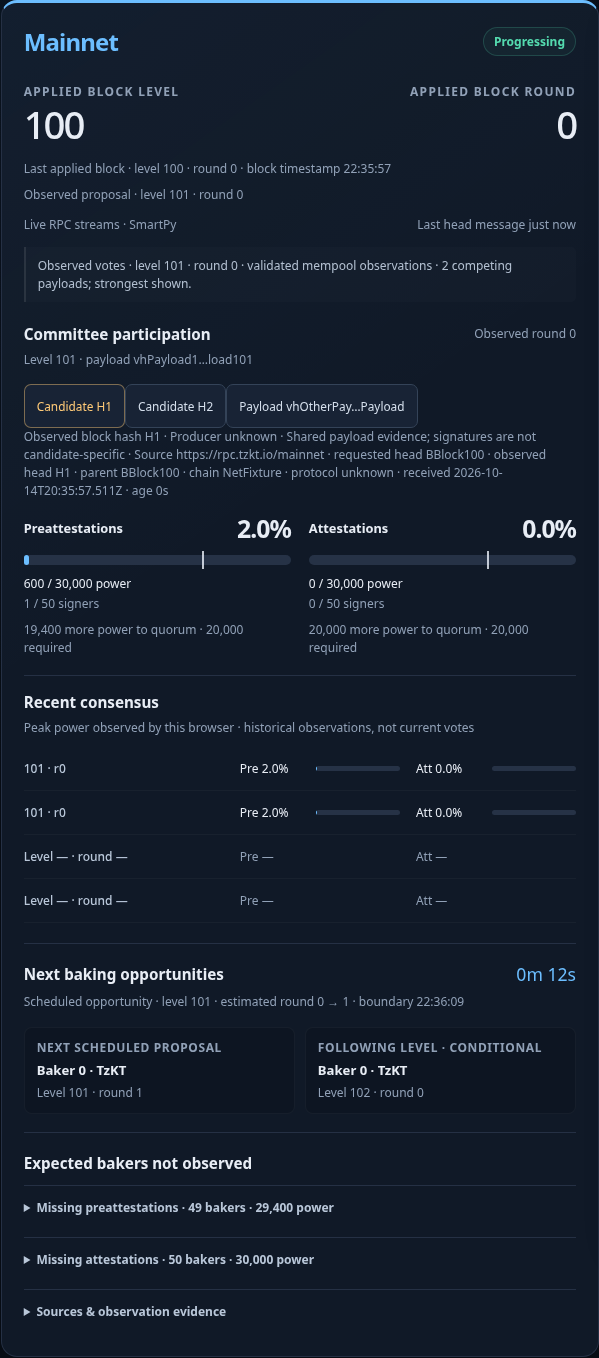
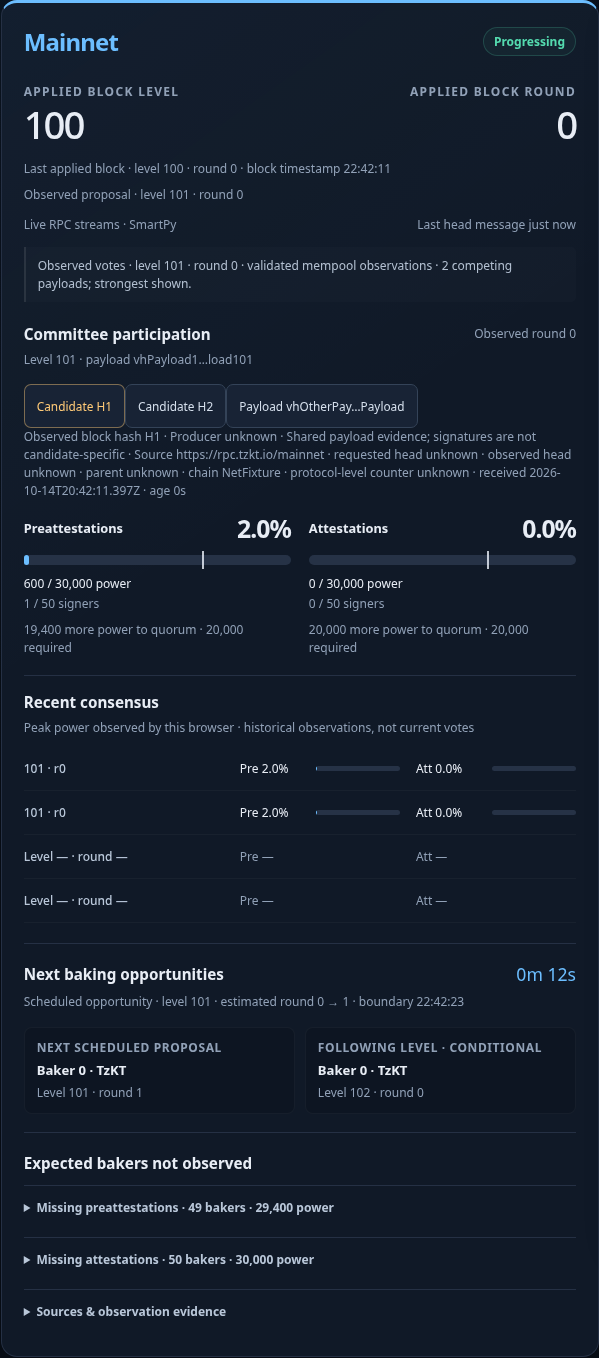
fix: preserve truthful unpinned observation provenance

diff --git a/src/main.ts b/src/main.ts
@@ -177,7 +177,7 @@ function render(runtime: Runtime): void {
   const chosenIdentity = activeCandidate?.identity ?? (selected ? groupIdentity(selected) : undefined);
   const selectedEvidence = activeCandidate?.evidence ?? selected?.evidence;
   const sharedPayload = activeCandidate && matchingCandidates.filter(candidate => candidate.header.payload_hash === activeCandidate.header.payload_hash && candidate.evidence.source.baseUrl === activeCandidate.evidence.source.baseUrl).length > 1;
-  const candidateEvidence = `${activeCandidate ? `Observed block hash ${activeCandidate.header.hash}` : 'Candidate hash unavailable'} · Producer unknown${sharedPayload ? ' · Shared payload evidence; signatures are not candidate-specific' : ''}${selected?.conflicts.length ? ` · Conflicting payload signer(s): ${selected.conflicts.join(', ')}` : ''}${selected?.unknownSlots.length ? ` · Unknown-rights signer slots: ${selected.unknownSlots.join(', ')}` : ''}${selectedEvidence ? ` · Source ${selectedEvidence.source.baseUrl} · requested head ${selectedEvidence.requestedHeadHash ?? 'unknown'} · observed head ${selectedEvidence.observedHeadHash ?? 'unknown'} · parent ${selectedEvidence.predecessor ?? 'unknown'} · chain ${selectedEvidence.chainId ?? 'unknown'} · protocol ${selectedEvidence.protocol ?? 'unknown'} · received ${new Date(selectedEvidence.receivedAt).toISOString()} · age ${Math.max(0,Math.floor((performance.now()-selectedEvidence.receivedMonotonic)/1000))}s` : ' · Source/context unavailable'}${authority.usable ? '' : ` · Numerical authority unavailable: ${authority.reason}`}`;
+  const candidateEvidence = `${activeCandidate ? `Observed block hash ${activeCandidate.header.hash}` : 'Candidate hash unavailable'} · Producer unknown${sharedPayload ? ' · Shared payload evidence; signatures are not candidate-specific' : ''}${selected?.conflicts.length ? ` · Conflicting payload signer(s): ${selected.conflicts.join(', ')}` : ''}${selected?.unknownSlots.length ? ` · Unknown-rights signer slots: ${selected.unknownSlots.join(', ')}` : ''}${selectedEvidence ? ` · Source ${selectedEvidence.source.baseUrl} · requested head ${selectedEvidence.requestedHeadHash ?? 'unknown'} · observed head ${selectedEvidence.observedHeadHash ?? 'unknown'} · parent ${selectedEvidence.predecessor ?? 'unknown'} · chain ${selectedEvidence.chainId ?? 'unknown'} · protocol-level counter ${selectedEvidence.protocolLevel ?? 'unknown'} · received ${new Date(selectedEvidence.receivedAt).toISOString()} · age ${Math.max(0,Math.floor((performance.now()-selectedEvidence.receivedMonotonic)/1000))}s` : ' · Source/context unavailable'}${authority.usable ? '' : ` · Numerical authority unavailable: ${authority.reason}`}`;
   const activityRound = currentRound;
   const hasCoverage = selected!==undefined && observedInstance!==undefined &&
     view.lastOperationAt !== null &&

diff --git a/src/monitor/networkMonitor.ts b/src/monitor/networkMonitor.ts
@@ -117,7 +117,7 @@ export class NetworkMonitor<T extends NetworkDerivedState> {
         this.headFallbackActive = false;
         this.clearHeadFallback();
         this.headStatus = { ...this.headStatus, mode: "stream", error: null };
-        this.acceptHead({...head, evidence: this.receipt(source, head)});
+        this.acceptHead({...head, evidence: this.receipt(source, head, true)});
       },
       onStatus: (source, error, metrics) => {
         if (error !== null) {
@@ -325,13 +325,16 @@ export class NetworkMonitor<T extends NetworkDerivedState> {
           this.derivingGeneration = null;
       });
   }
-  private receipt(source: RpcSource, observed?: BlockHeader): ObservationEvidence {
-    const head = this.state.snapshot()?.head;
+  private receipt(source: RpcSource, observed?: BlockHeader, appliedHead = false): ObservationEvidence {
+    const current = this.state.snapshot()?.head;
+    // Streams request a chain-wide endpoint, never the currently rendered hash.
+    // Context may be captured only from a head actually observed at this endpoint.
+    const contextualHead = appliedHead ? observed : current?.evidence?.source.baseUrl === source.baseUrl ? current : undefined;
     return Object.freeze({
       source: Object.freeze({...source}),
       ...(observed?.chainId ? {chainId: observed.chainId} : {}),
-      ...(head ? {requestedHeadHash: head.hash} : {}),
-      ...(observed ? {observedHeadHash: observed.hash, predecessor: observed.predecessor, ...(observed.proto === undefined ? {} : {protocol: observed.proto})} : head?.evidence?.source.baseUrl === source.baseUrl ? {observedHeadHash: head.hash, predecessor: head.predecessor, ...(head.proto === undefined ? {} : {protocol: head.proto})} : {}),
+      ...(observed ? {observedBlockHash:observed.hash} : {}),
+      ...(contextualHead ? {observedHeadHash:contextualHead.hash,predecessor:contextualHead.predecessor,...(contextualHead.proto === undefined ? {} : {protocolLevel:contextualHead.proto})} : {}),
       receivedAt: Date.now(), receivedMonotonic: performance.now(),
     });
   }

diff --git a/src/rpc/networkData.ts b/src/rpc/networkData.ts
@@ -195,7 +195,13 @@ export class NetworkData {
           throw new Error(`${source.name}: HTTP ${response.status}`);
         const result: unknown = await response.json();
         this.source = source;
-        return {value:result,evidence:Object.freeze({source:Object.freeze({...source}),receivedAt:Date.now(),receivedMonotonic:performance.now(),...(head ? {requestedHeadHash:head.hash,observedHeadHash:head.hash,predecessor:head.predecessor,...(head.proto === undefined ? {} : {protocol:head.proto}),...(head.chainId ? {chainId:head.chainId} : {})} : {})})};
+        const pinnedHead = head && path.includes(`/blocks/${head.hash}/`) ? head : undefined;
+        const sameObserverHead = head?.evidence?.source.baseUrl === source.baseUrl ? head : undefined;
+        return {value:result,evidence:Object.freeze({
+          source:Object.freeze({...source}),receivedAt:Date.now(),receivedMonotonic:performance.now(),
+          ...(pinnedHead ? {requestedHeadHash:pinnedHead.hash} : {}),
+          ...(sameObserverHead ? {observedHeadHash:sameObserverHead.hash,predecessor:sameObserverHead.predecessor,...(sameObserverHead.proto === undefined ? {} : {protocolLevel:sameObserverHead.proto}),...(sameObserverHead.chainId ? {chainId:sameObserverHead.chainId} : {})} : {}),
+        })};
       } catch (failure) {
         error = failure;
       }
@@ -205,7 +211,8 @@ export class NetworkData {
 
   async head(signal: AbortSignal): Promise<BlockHeader> {
     const observed = await this.requestObserved("/chains/main/blocks/head/header",signal);
-    return {...asBlockHeader(observed.value),evidence:observed.evidence};
+    const header = asBlockHeader(observed.value);
+    return {...header,evidence:Object.freeze({...observed.evidence,observedHeadHash:header.hash,observedBlockHash:header.hash,predecessor:header.predecessor,...(header.proto === undefined ? {} : {protocolLevel:header.proto})})};
   }
 
   async pending(signal: AbortSignal, head?: BlockHeader): Promise<readonly MonitoredOperation[]> {

diff --git a/tests/unit/networkData.test.ts b/tests/unit/networkData.test.ts
@@ -33,3 +33,18 @@ it("rejects invalid committee values and invalid protocol quorum without losing 
  const data=new NetworkData("mainnet"),result=await data.derive(head(120),new AbortController().signal);
  expect(result.rights.size).toBe(0);expect(result.constants).toBeNull();
 });
+
+it("preserves raw pending branches and labels only actually pinned auxiliary requests",async()=>{
+ vi.stubGlobal("fetch",async(input:string|URL|Request)=>{
+  const url=String(input),level=Number(new URL(url).searchParams.get("level"));
+  if(url.includes("pending_operations"))return Response.json({validated:[{hash:"pending",branch:"BRawAnchor",contents:[{kind:"preattestation",level:121,round:0,slot:0,block_payload_hash:"P"}]}]});
+  if(url.includes("attestation_rights"))return Response.json([{level,delegates:[{delegate:"D1",first_slot:0,attesting_power:5}]}]);
+  return Response.json({minimal_block_delay:"6",delay_increment_per_round:"3",consensus_threshold_size:4,consensus_committee_size:5});
+ });
+ const data=new NetworkData("mainnet"),signal=new AbortController().signal;
+ const pending=await data.pending(signal,head(120));expect(pending[0]?.branch).toBe("BRawAnchor");
+ expect(pending[0]?.evidence?.requestedHeadHash).toBeUndefined();expect(pending[0]?.evidence?.observedHeadHash).toBeUndefined();
+ const derived=await data.derive(head(120),signal);
+ expect(derived.rights.get(120)?.[0]?.evidence?.requestedHeadHash).toBe("B120");
+ expect(derived.rights.get(120)?.[0]?.evidence?.observedHeadHash).toBeUndefined();
+});

diff --git a/tests/unit/networkMonitor.test.ts b/tests/unit/networkMonitor.test.ts
@@ -364,3 +364,23 @@ it("bounds accepted and unresolved candidate products independently by first rec
   expect(views.at(-1)?.candidates.some(candidate=>candidate.header.hash==="accepted-100")).toBe(true);
   monitor.stop();
 });
+
+it("keeps unpinned A/B stream requested-head facts unknown and never borrows A head context for B",()=>{
+ vi.useFakeTimers();
+ const {monitor,heads,operations,views}=setup({proposalSources:[source]});
+ heads.value(header(120));
+ const headEvidence=views.at(-1)?.snapshot?.head.evidence;
+ expect(headEvidence?.requestedHeadHash).toBeUndefined();
+ expect(headEvidence?.observedHeadHash).toBe("B120");
+ const other={...source,name:"observer B",baseUrl:"https://observer-b"};
+ operations.settings.onValue([{hash:"B-vote",contents:[{kind:"preattestation",level:121,round:0,slot:0,block_payload_hash:"P"}]}],other,0);
+ const voteEvidence=views.at(-1)?.snapshot?.operations[0]?.evidence;
+ expect(voteEvidence?.requestedHeadHash).toBeUndefined();expect(voteEvidence?.observedHeadHash).toBeUndefined();
+ expect(voteEvidence?.source.baseUrl).toBe(other.baseUrl);
+ const proposals=FakeTransport.instances[2] as FakeTransport<BlockHeader>;
+ proposals.settings.onValue({...header(121),hash:"B-proposal",chainId:"NetB",payload_hash:"P"},other,0);
+ const candidate=views.at(-1)?.candidates[0];
+ expect(candidate?.evidence.requestedHeadHash).toBeUndefined();expect(candidate?.evidence.observedHeadHash).toBeUndefined();
+ expect(candidate?.header.predecessor).toBe("B120");
+ monitor.stop();
+});

diff --git a/src/consensus/phaseEvidence.ts b/src/consensus/phaseEvidence.ts
@@ -41,7 +41,7 @@ export function signerPower(signers: ReadonlySet<string>, rights: readonly Deleg
 }
 
 export function evidenceContext(evidence?: ObservationEvidence): string {
-  return JSON.stringify([evidence?.source.network ?? "unknown", evidence?.source.baseUrl ?? "unknown", evidence?.chainId ?? "unknown", evidence?.requestedHeadHash ?? "unknown", evidence?.predecessor ?? "unknown", evidence?.protocol ?? "unknown"]);
+  return JSON.stringify([evidence?.source.network ?? "unknown", evidence?.source.baseUrl ?? "unknown", evidence?.chainId ?? "unknown", evidence?.requestedHeadHash ?? "unknown", evidence?.observedHeadHash ?? "unknown", evidence?.predecessor ?? "unknown", evidence?.protocolLevel ?? "unknown"]);
 }
 
 export function groupsFor(operations: readonly MonitoredOperation[], rights: readonly DelegateRight[], level: number): Group[] {

diff --git a/src/rpc/models.ts b/src/rpc/models.ts
@@ -13,7 +13,9 @@ export interface ObservationEvidence {
   readonly requestedHeadHash?: string;
   readonly observedHeadHash?: string;
   readonly predecessor?: string;
-  readonly protocol?: number;
+  /** Shell header proto is a protocol-level counter, not a protocol hash. */
+  readonly protocolLevel?: number;
+  readonly observedBlockHash?: string;
   readonly receivedAt: number;
   readonly receivedMonotonic: number;
 }
@@ -45,6 +47,8 @@ export interface ConsensusContent {
 }
 
 export interface MonitoredOperation {
+  /** Original raw RPC branch; it does not prove immediate proposal ancestry. */
+  readonly branch?: string;
   readonly evidence?: ObservationEvidence;
   readonly hash: string;
   readonly contents: readonly ConsensusContent[];

diff --git a/tests/unit/guards.test.ts b/tests/unit/guards.test.ts
@@ -145,3 +145,9 @@ describe("consensus operation guards", () => {
      expect(()=>asBlockHeader({...h,timestamp})).toThrow();
    for(const level of [-1,0.5,Infinity,Number.MAX_SAFE_INTEGER+1])expect(()=>asBlockHeader({...h,level})).toThrow();
  });
+
+it("preserves the RPC operation branch as a raw anchor without fabricating one",()=>{
+ const parsed=asOperationBatch([{hash:"anchored",branch:"BOriginalBranch",contents:[{kind:"preattestation",...consensus,slot:0}]}]);
+ expect((parsed[0] as unknown as {branch?:string})?.branch).toBe("BOriginalBranch");
+ expect((asOperationBatch([{hash:"unanchored",contents:[{kind:"preattestation",...consensus,slot:0}]}])[0] as unknown as {branch?:string})?.branch).toBeUndefined();
+});

diff --git a/src/rpc/guards.ts b/src/rpc/guards.ts
@@ -127,7 +127,7 @@ function asOperation(value: unknown): MonitoredOperation {
       ];
     },
   );
-  return { hash: value.hash, contents: invalid ? [] : contents };
+  return { hash: value.hash, contents: invalid ? [] : contents, ...(typeof value.branch === "string" ? {branch:value.branch} : {}) };
 }
 
 export function asOperationBatch(value: unknown): MonitorOperationBatch {

diff --git a/briefs/observatory-foundations-slice-1-impl.md b/briefs/observatory-foundations-slice-1-impl.md
@@ -13,20 +13,20 @@ The production page now lets a reader select H1 or H2 at the same level/round wi
 
 `phaseEvidence.ts` is the production accounting function extracted from `main.ts`, then extended after behavioral regressions. It groups votes by source/context/level/round/payload, counts unique phase delegates, exposes conflicting payload signers and preserves unknown-rights slots. It rejects contradictory committees, incomplete totals, invalid thresholds and unsafe cumulative power. Percentage rendering remains separate from exact power, signer count and deficit.
 
-`guards.ts` rejects a whole operation when any relevant consensus member is malformed, validates safe nonnegative applied levels/protocol indices and legitimate explicit-timezone calendar timestamps. A proposal retains the supplied chain identity. `OperationStore` no longer replaces first evidence or refreshes receipt order on replay; its existing 10000-operation cap remains in use.
+`guards.ts` rejects a whole operation when any relevant consensus member is malformed, validates safe nonnegative applied levels/protocol indices and legitimate explicit-timezone calendar timestamps. A proposal retains the supplied chain identity. An operation retains its supplied raw RPC branch without interpreting it as immediate proposal ancestry. `OperationStore` no longer replaces first evidence or refreshes receipt order on replay; its existing 10000-operation cap remains in use.
 
-`NetworkData` wraps reads with the actual responding endpoint and immutable receipt/requested-head facts, including successful fallback responses. Committee and protocol numerical boundaries reject fractional/negative/unsafe values and invalid threshold authority. Exact coherent cache/chain authority is deliberately unfinished until slice 3.
+`NetworkData` wraps reads with the actual responding endpoint and immutable receipt facts, retaining requested-head hashes only for routes actually pinned by hash, including successful fallback responses. Committee and protocol numerical boundaries reject fractional/negative/unsafe values and invalid threshold authority. Exact coherent cache/chain authority is deliberately unfinished until slice 3.
 
 ## Actual verification
 
 All commands used the supplied Node 22 runtime. Baseline before production changes: clean npm ci, TypeScript check, 38 unit tests, 30 Playwright cases across Chromium/Firefox, and build.
 
-After slice changes: TypeScript check passed, 47 unit tests passed, build passed and 32 Playwright cases passed across Chromium/Firefox. The new real `/` scenario independently selects H1/H2 and competing payload Q, verifies shared qualification/unknown producer, source endpoint, unique replay signer and exact 19400 deficit. Both browsers also ran the baseline focus/scroll and header regressions. Focused screenshot execution passed after correcting its panel selector; captures are [Chromium](../roster/observatory-foundations/slice-1-chromium.png) and [Firefox](../roster/observatory-foundations/slice-1-firefox.png).
+After slice changes: TypeScript check passed, 50 unit tests passed, build passed and 32 Playwright cases passed across Chromium/Firefox. The new real `/` scenario independently selects H1/H2 and competing payload Q, verifies shared qualification/unknown producer, source endpoint, unique replay signer and exact 19400 deficit. Both browsers also ran the baseline focus/scroll and header regressions. Focused screenshot execution passed after correcting its panel selector; captures are [Chromium](../roster/observatory-foundations/slice-1-chromium.png) and [Firefox](../roster/observatory-foundations/slice-1-firefox.png).
 
 | Semantic command | Actual assertions | Result |
 |---|---:|---|
-| `rtk proxy node scripts/check-observatory-foundations.mjs AC-1` | 10 | exit 0 |
-| `rtk proxy node scripts/check-observatory-foundations.mjs AC-9` | 10 | exit 0 |
+| `rtk proxy node scripts/check-observatory-foundations.mjs AC-1` | 12 | exit 0 |
+| `rtk proxy node scripts/check-observatory-foundations.mjs AC-9` | 12 | exit 0 |
 | `rtk proxy node scripts/check-observatory-foundations.mjs AC-10` | 3 | exit 0 |
 | `rtk proxy node scripts/check-observatory-foundations.mjs AC-11` | 9 | exit 0 |
 | `rtk proxy node scripts/check-observatory-foundations.mjs AC-12` | 21 | exit 0 |
@@ -34,6 +34,8 @@ After slice changes: TypeScript check passed, 47 unit tests passed, build passed
 These checks load real production modules using the existing Vite transformation API; they do not duplicate accounting functions. Unsupported ACs are explicit incomplete-execution errors, not passing placeholders. AC-38 currently exits 2. The complete 38-command interface and browser-required cases remain owning-slice obligations.
 
 Meaningful TDD failures were observed before behavior changes: H2 was discarded, mixed malformed aggregates retained valid signers, rollover dates were accepted, replay replaced original contents and invalid fractional committee data retained authority. Conflict and invalid-committee tests followed a mechanical accounting extraction and failed at assertions before extensions. The first candidate test initially dereferenced an absent new field, which was an execution error, not a behavioral red; it was corrected to assert the existing `latestProposal.hash` H1-versus-H2 boundary before production changes. [Standalone AC-1 red evidence](../roster/observatory-foundations/slice-1-ac1-red.log) records assertion exit 1 against the original base monitor with current check support; current code exits 0. The temporary original monitor was restored immediately.
+
+Root caught a provenance-carrier defect before handoff: unpinned stream receipts borrowed the globally rendered head as a requested-head fact. Actual A/B regressions failed at assertions before correction. Unpinned streams and pending reads now leave requested-head unknown, and capture observed-head context only from the same observer. Pinned auxiliary routes retain their actual requested hash. The shell `proto` number is now explicitly a protocol-level counter, not a protocol hash. These fact corrections are included in the final interim checkpoint.
 
[1 lines of base64/hex data omitted]
 
